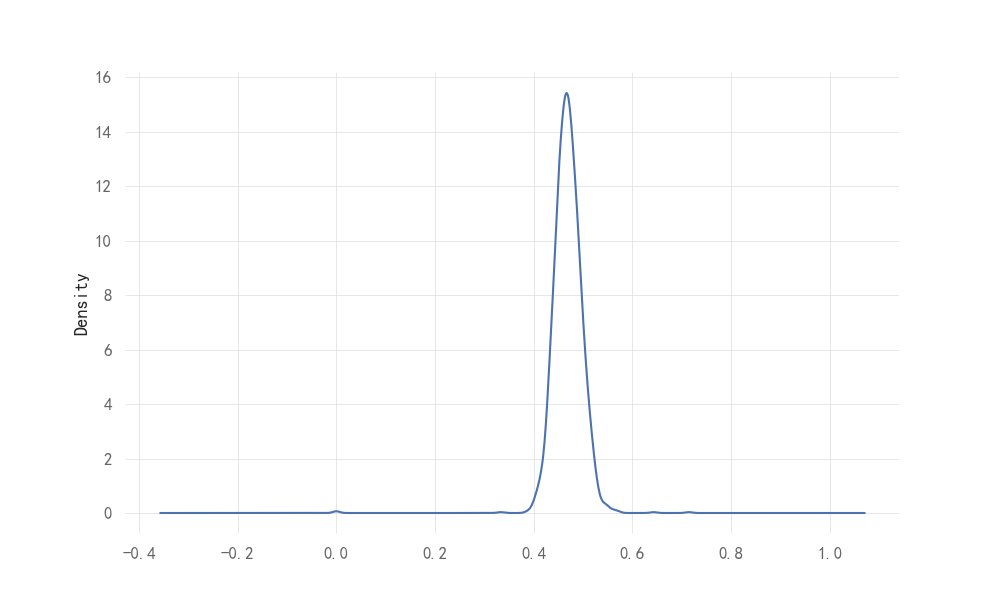
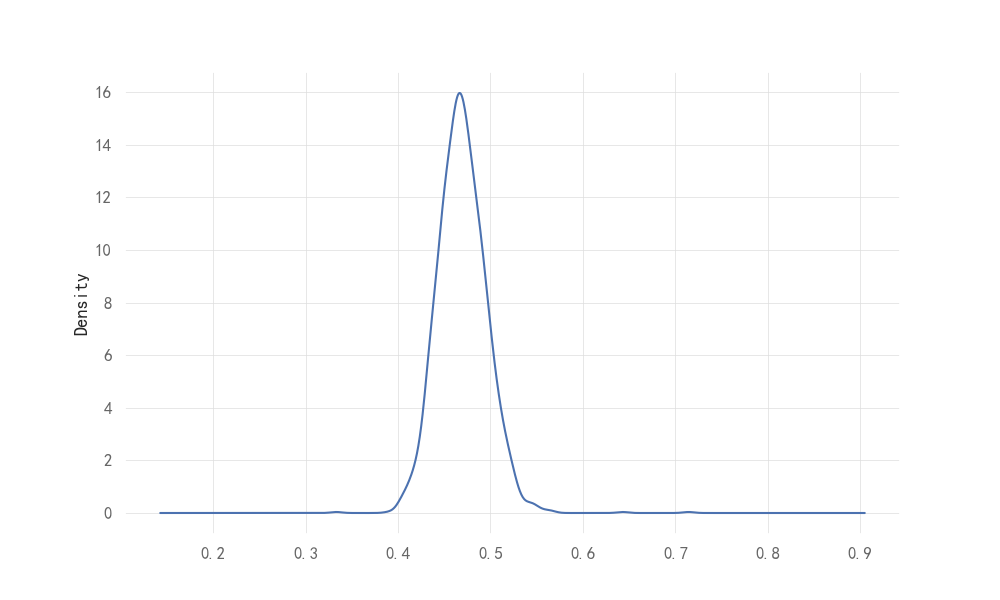
增加计算风险指标的功能。

diff --git a/ma/tools.py b/ma/tools.py
@@ -54,18 +54,27 @@ def make_stock_pool(data, highPrice = 5.0):
     # 排除要退市个股
     # print("排除前", len(smallData))
     smallData = smallData[~ smallData.名称.str.contains("退")]
+    # 上市时间太短需排除的股票代码
+    discard = ['sh600032', 'sh600905', 'sh601665', 'sh605167', 'sh688425', 'sh688509', 'sh688538', 'sz001208']
+    smallData = smallData[~smallData.代码.isin(discard)]
     newData = smallData
     newData.reset_index(drop = True, inplace = True)
     # print(newData.info())
     # print(newData.代码)
-    newData.代码.to_csv("./result.csv")
+    # newData.代码.to_csv("./result.csv")
+    
+    codes = []
+    for code in newData.代码:
+        codes.append(code[2:])
+    return codes
     
     
 # 获取股票池近month个月的日线数据
 @run.change_dir
-def getRecentData(path = "./result.csv", refresh = False, savePath = "./pooldata/", month = 6):
-    data = pd.read_csv(path, converters = {'代码':str}).代码.values
-    codes = []
+def getRecentData(codes, refresh = False, savePath = "./pooldata/", month = 6):
+    # data = pd.read_csv(path, converters = {'代码':str}).代码.values
+    new_codes = []
+    discard_code = []
     # print(data)
     # 获取股票最近month个月数据
     if refresh == True:
@@ -74,41 +83,78 @@ def getRecentData(path = "./result.csv", refresh = False, savePath = "./pooldata
         months = (datetime.date.today() - relativedelta(months = month)).strftime("%Y%m%d")
         # print("上月日期:", lastmonth)
         k = 0.0
-        n = len(data)
-        for i in data:
+        n = len(codes)
+        for i in codes:
             k += 1.0
             print("已下载了", str(k/n*100), "%股票数据\n")
-            codes.append(i[2:])
-            stock_data = ak.stock_zh_a_hist(symbol = codes[-1], start_date = months, end_date = today, adjust = "qfq")
-            filename = savePath + codes[-1] + ".csv"
-            # 改造数据
-            # stock_data.index = pd.DatetimeIndex(data.index)
-            # stock_data.rename(columns={'日期':'Date', '开盘':'Open'})
-            stock_data.to_csv(filename)
+            code = i
+            # print(code)
+            stock_data = ak.stock_zh_a_hist(symbol = code, start_date = months, end_date = today, adjust = "qfq")
+            # 排除上市不足两个月的股票。
+            # print("测试", len(stock_data))
+            if len(stock_data) > 60:
+                # print("大于60")
+                new_codes.append(code)
+                filename = savePath + new_codes[-1] + ".csv"
+                stock_data.to_csv(filename, index = False)
+            else:
+                discard_code.append(code)
+        # print("需排除的股票代码:", discard_code)
+        return new_codes
     else:
-        for i in data:
-            codes.append(i[2:])
-    return codes
+        return codes
     
     
 # 获取指定代码股票历史数据
 @run.change_dir
-def getStockData(code):
-    path = "./pooldata/"
+def getStockData(code, path = "./pooldata/", month = 6, refresh = False):
     filename = path + code + ".csv"
-    if os.path.exists(filename):
+    if os.path.exists(filename) and refresh == False:
         data = pd.read_csv(filename)
         data.日期 = pd.to_datetime(data.日期)
         return data
-    return None
+    else:
+        today = datetime.date.today().strftime("%Y%m%d")
+        # print("今天日期:", today)
+        months = (datetime.date.today() - relativedelta(months = month)).strftime("%Y%m%d")
+        stock_data = ak.stock_zh_a_hist(symbol = code, start_date = months, end_date = today, adjust = "qfq")
+        stock_data.日期 = pd.to_datetime(stock_data.日期)
+        stock_data.to_csv(filename, index = False)
+        return stock_data
+    
+    
+# 获取基准数据，默认为沪深300ETF
+@run.change_dir
+def getBenchmarkData(code = "sh510300", path = "./", month = 6, refresh = False):
+    filename = path + "bench.csv"
+    if os.path.exists(filename) and refresh == False:
+        data = pd.read_csv(filename)
+        data.date = pd.to_datetime(data.date)
+        data.columns = ["日期", "开盘", "最高", "最低", "收盘", "成交量"]
+        return data
+    else:
+        today = datetime.date.today().strftime("%Y%m%d")
+        # print("今天日期:", today)
+        months = (datetime.date.today() - relativedelta(months = month)).strftime("%Y%m%d")
+        # print("测试基准", code, type(code))
+        # benchmark_data = ak.stock_zh_a_hist(symbol = code, start_date = months, end_date = today, adjust = "qfq")
+        benchmark_data = ak.stock_zh_index_daily(symbol = code)
+        # benchmark_data.columns = ["开盘", "最高", "最低", "收盘", "成交量"]
+        # benchmark_data.rename(index = {"date":"日期"})
+        benchmark_data.to_csv(filename)
+        data = pd.read_csv(filename)
+        data.date = pd.to_datetime(data.date)
+        data.columns = ["日期", "开盘", "最高", "最低", "收盘", "成交量"]
+        return data
     
     
 # 打包整个下载数据，选股过程
 @run.change_dir
 def Research(refresh = True, month = 6, highPrice = 5.0):
     data = getData(refresh = refresh)
-    make_stock_pool(data, highPrice)
-    codes = getRecentData(refresh = refresh, month = month)
+    pool_codes = make_stock_pool(data, highPrice)
+    codes = getRecentData(codes = pool_codes, refresh = refresh, month = month)
+    getBenchmarkData(month = month, refresh = refresh)
     return codes
     
     

diff --git a/ma/backtest.py b/ma/backtest.py
@@ -5,6 +5,7 @@
 
 import pandas as pd
 import backtrader as bt
+import empyrical as ey
 import run
 import tools
 import strategy as st
@@ -14,12 +15,33 @@ import quantstats
 import imgkit
 import os
 from PIL import Image
+import math
 
+
+# 基准测试类   
+# 买入持有策略
+class BmStrategy(bt.Strategy):
+    def __init__(self):
+        self.order = None
+        self.bBuy = False
+        self.dataclose = self.datas[0].close
+ 
+    def next(self):
+        if self.bBuy == True:
+            return
+        else:
+            cash = self.broker.get_cash()
+            stock = math.ceil(cash/self.dataclose/100)*100 - 100
+            self.order = self.buy(size = stock, price = self.datas[0].close)
+            self.bBuy = True
+ 
+    def stop(self):
+        self.order = self.close()
 
 
 # 封装BackTrader回测过程的类
 class BackTest:
-    def __init__(self, codes, strategy, cash = 1000, commission = 0.0006, stake = 100, riskfree = 0.0):
+    def __init__(self, codes, strategy, benchmark = None, month = 6, path = "./pooldata/", cash = 1000, commission = 0.0006, stake = 100, riskfree = 0.0, refresh = False):
         self.cash = cash
         self.commission = commission
         self.codes = codes
@@ -27,8 +49,14 @@ class BackTest:
         self.stake = stake
         self.cerebro = None
         self.results = None
+        self.bm_results = None
         self.totalTrade = None
+        self.bm = None  # 基准类
+        self.benchmark = benchmark
         self.rf = riskfree
+        self.month = month
+        self.path = path
+        self.refresh = refresh
         self.initBT()
         
     # 初始化BackTrader
@@ -39,16 +67,32 @@ class BackTest:
         self.cerebro.addsizer(bt.sizers.SizerFix, stake = self.stake)
         # 准备数据
         for code in self.codes:
-            data = self.data_transform(code)
+            data_df = tools.getStockData(code = code, path = self.path, month = self.month, refresh = self.refresh)
+            data = self.data_transform(code, data_df)
             self.cerebro.adddata(data, name = code)
         self.cerebro.addstrategy(self.strategy)
         self.cerebro.addanalyzer(bt.analyzers.PyFolio, _name='PyFolio')
         self.cerebro.addanalyzer(bt.analyzers.TradeAnalyzer, _name = "TA")
+        self.cerebro.addanalyzer(bt.analyzers.TimeReturn, _name = "TR")
+        
+        # 初始化基准数据
+        self.bm = bt.Cerebro()
+        self.bm.broker.setcash(self.cash)
+        self.bm.broker.setcommission(self.commission)
+        self.bm.addsizer(bt.sizers.SizerFix, stake = self.stake)
+        # 准备数据
+        # print(self.benchmark.info())
+        data = self.data_transform("BenchMark", self.benchmark)
+        self.bm.adddata(data, name = "BenchMark")
+        # 添加策略和分析器
+        self.bm.addstrategy(BmStrategy)
+        self.bm.addanalyzer(bt.analyzers.TimeReturn, _name = "TR")
+        
             
     # 数据转换
     @run.change_dir
-    def data_transform(self, code):
-        data_df = tools.getStockData(code)
+    def data_transform(self, code, data_df):
+        # print(code, data_df.info())
         data = bt.feeds.PandasData(
             dataname=data_df,
             name=code,
@@ -74,6 +118,23 @@ class BackTest:
         self.totalTrade = self.results[0].analyzers.getbyname("TA").get_analysis()
         # print("测试", self.totalTrade.get_analysis()["total"]["total"])
         # print("回测执行完毕")
+        # 运行基准回测
+        self.bm_results = self.bm.run()
+        self.ret = pd.Series(self.results[0].analyzers.TR.get_analysis())
+        self.bm_ret = pd.Series(self.bm_results[0].analyzers.TR.get_analysis())
+        # 计算风险指标
+        self.__riskAnalyzer()
+        
+        
+    # 计算风险分析
+    def __riskAnalyzer(self):
+        # 计算Alpha
+        self._alpha = ey.alpha(returns = self.ret, factor_returns = self.bm_ret, risk_free = self.rf)
+         # 计算Beta
+        self._beta = ey.beta(returns = self.ret, factor_returns = self.bm_ret, risk_free = self.rf)
+        #  计算信息比率
+        self._info = ey.excess_sharpe(returns = self.ret, factor_returns = self.bm_ret)
+        
         
     # 获取回测结果
     def getResults(self):
@@ -96,6 +157,9 @@ class BackTest:
          "调整索提比例":quantstats.stats.adjusted_sortino(returns = self.returns, rf = self.rf),
           "skew":quantstats.stats.skew(returns = self.returns),
           "calmar":quantstats.stats.calmar(returns = self.returns),
+          "Alpha":self._alpha,
+          "Beta":self._beta,
+          "信息比率":self._info,
           "最大回撤":quantstats.stats.max_drawdown(prices = self.returns)})
         # 获取交易成本
         # self.results[0].analyzers.TA.print()

diff --git a/ma/doBacktest.py b/ma/doBacktest.py
@@ -20,7 +20,9 @@ from scipy import stats
 def main(refresh = False):
     # 先初始化，准备数据
     tools.init()
-    codes = tools.Research(refresh = refresh, month = 12, highPrice = 10.0)
+    codes = tools.Research(refresh = refresh, month = 60, highPrice = 10.0)
+    benchmark = tools.getBenchmarkData(month = 60, refresh = refresh)
+    # print(benchmark.head())
     datafilepath = "./backtest.csv"
     if os.path.exists(datafilepath) and refresh == False:
         test_res = pd.read_csv(datafilepath, converters = {'股票代码':str})
@@ -30,8 +32,8 @@ def main(refresh = False):
         i = 0
         for code in codes:
             i += 1.0
-            print("回测进度:", i/n*100)
-            backtest = BackTest(codes = [code], strategy = st.MAcrossover)
+            print("回测进度:", i/n*100, "%")
+            backtest = BackTest(codes = [code], strategy = st.MAcrossover, benchmark = benchmark)
             results = backtest.getResults()
             test_res = test_res.append(results)
         test_res.to_csv(datafilepath, index = False)
@@ -77,6 +79,17 @@ def main(refresh = False):
     # 计算交易次数与胜率的相关系数
     r, p = stats.pearsonr(trades, winrates)
     print("交易次数与胜率的相关系数为:%6.3f，概率为:%6.3f" % (r, p))
+    # 画alpha，beta值分布图
+    plt.figure()
+    test_res.Alpha.plot(kind = "kde")
+    plt.ylabel("α")
+    plt.savefig("./output/alpha.png")
+    plt.close()
+    plt.figure()
+    test_res.Beta.plot(kind = "kde")
+    plt.ylabel("β")
+    plt.savefig("./output/beta.png")
+    plt.close()
     
     
 @run.change_dir
@@ -95,6 +108,19 @@ def main2():
     print("b", res2)
     
     
+# 测试，增加计算alpha等指标
+@run.change_dir
+def main3(refresh = False):
+    tools.init()
+    code = "002166"
+    benchmark = tools.getBenchmarkData(month = 60, refresh = refresh, path = "./stockdata/")
+    backtest = BackTest(codes = [code], strategy = st.MAcrossover, benchmark = benchmark, month = 60, refresh = refresh, path = "./stockdata/")
+    results = backtest.getResults()
+    print(results)
+    backtest.drawResults(code + "result")
+    
+    
 if __name__ == "__main__":
-    main()
+    main(refresh = False)
     # main2()
+    # main3(refresh = False)

diff --git a/ma/testBenchmark.py b/ma/testBenchmark.py
@@ -1,0 +1,41 @@
+# coding:utf-8
+# 1000元实盘练习程序
+# 测试下载基准数据
+
+
+import pandas as pd
+import numpy as np
+import efinance as ef
+import akshare as ak
+import run
+import os
+import datetime
+from dateutil.relativedelta import relativedelta
+
+
+
+# 获取基准数据，默认为沪深300ETF
+@run.change_dir
+def getBenchmarkData(code = "sh510300", path = "./", month = 6, refresh = False):
+    filename = path + "bench.csv"
+    if os.path.exists(filename) and refresh == False:
+        data = pd.read_csv(filename)
+        data.date = pd.to_datetime(data.date)
+        data.columns = ["日期", "开盘", "最高", "最低", "收盘", "成交量"]
+        return data
+    else:
+        today = datetime.date.today().strftime("%Y%m%d")
+        # print("今天日期:", today)
+        months = (datetime.date.today() - relativedelta(months = month)).strftime("%Y%m%d")
+        print("测试基准", code, type(code))
+        # benchmark_data = ak.stock_zh_a_hist(symbol = code, start_date = months, end_date = today, adjust = "qfq")
+        benchmark_data = ak.stock_zh_index_daily(symbol = code)
+        benchmark_data.to_csv(filename)
+        return benchmark_data
+        
+        
+if __name__ == "__main__":
+    data = getBenchmarkData(path = "./testdata/", month = 60)
+    print(data.info())
+    print(data.head())
+    

diff --git a/ma/strategy.py b/ma/strategy.py
@@ -84,6 +84,9 @@ class MAcrossover(bt.Strategy):
             if len(self) >= (self.bar_executed + 5):
                 # self.log(f'CLOSE CREATE {self.dataclose[0]:2f}')
                 self.order = self.close()
+                
+    def stop(self):
+        self.order = self.close()
             
             
 class Screener_SMA(bt.Analyzer):
